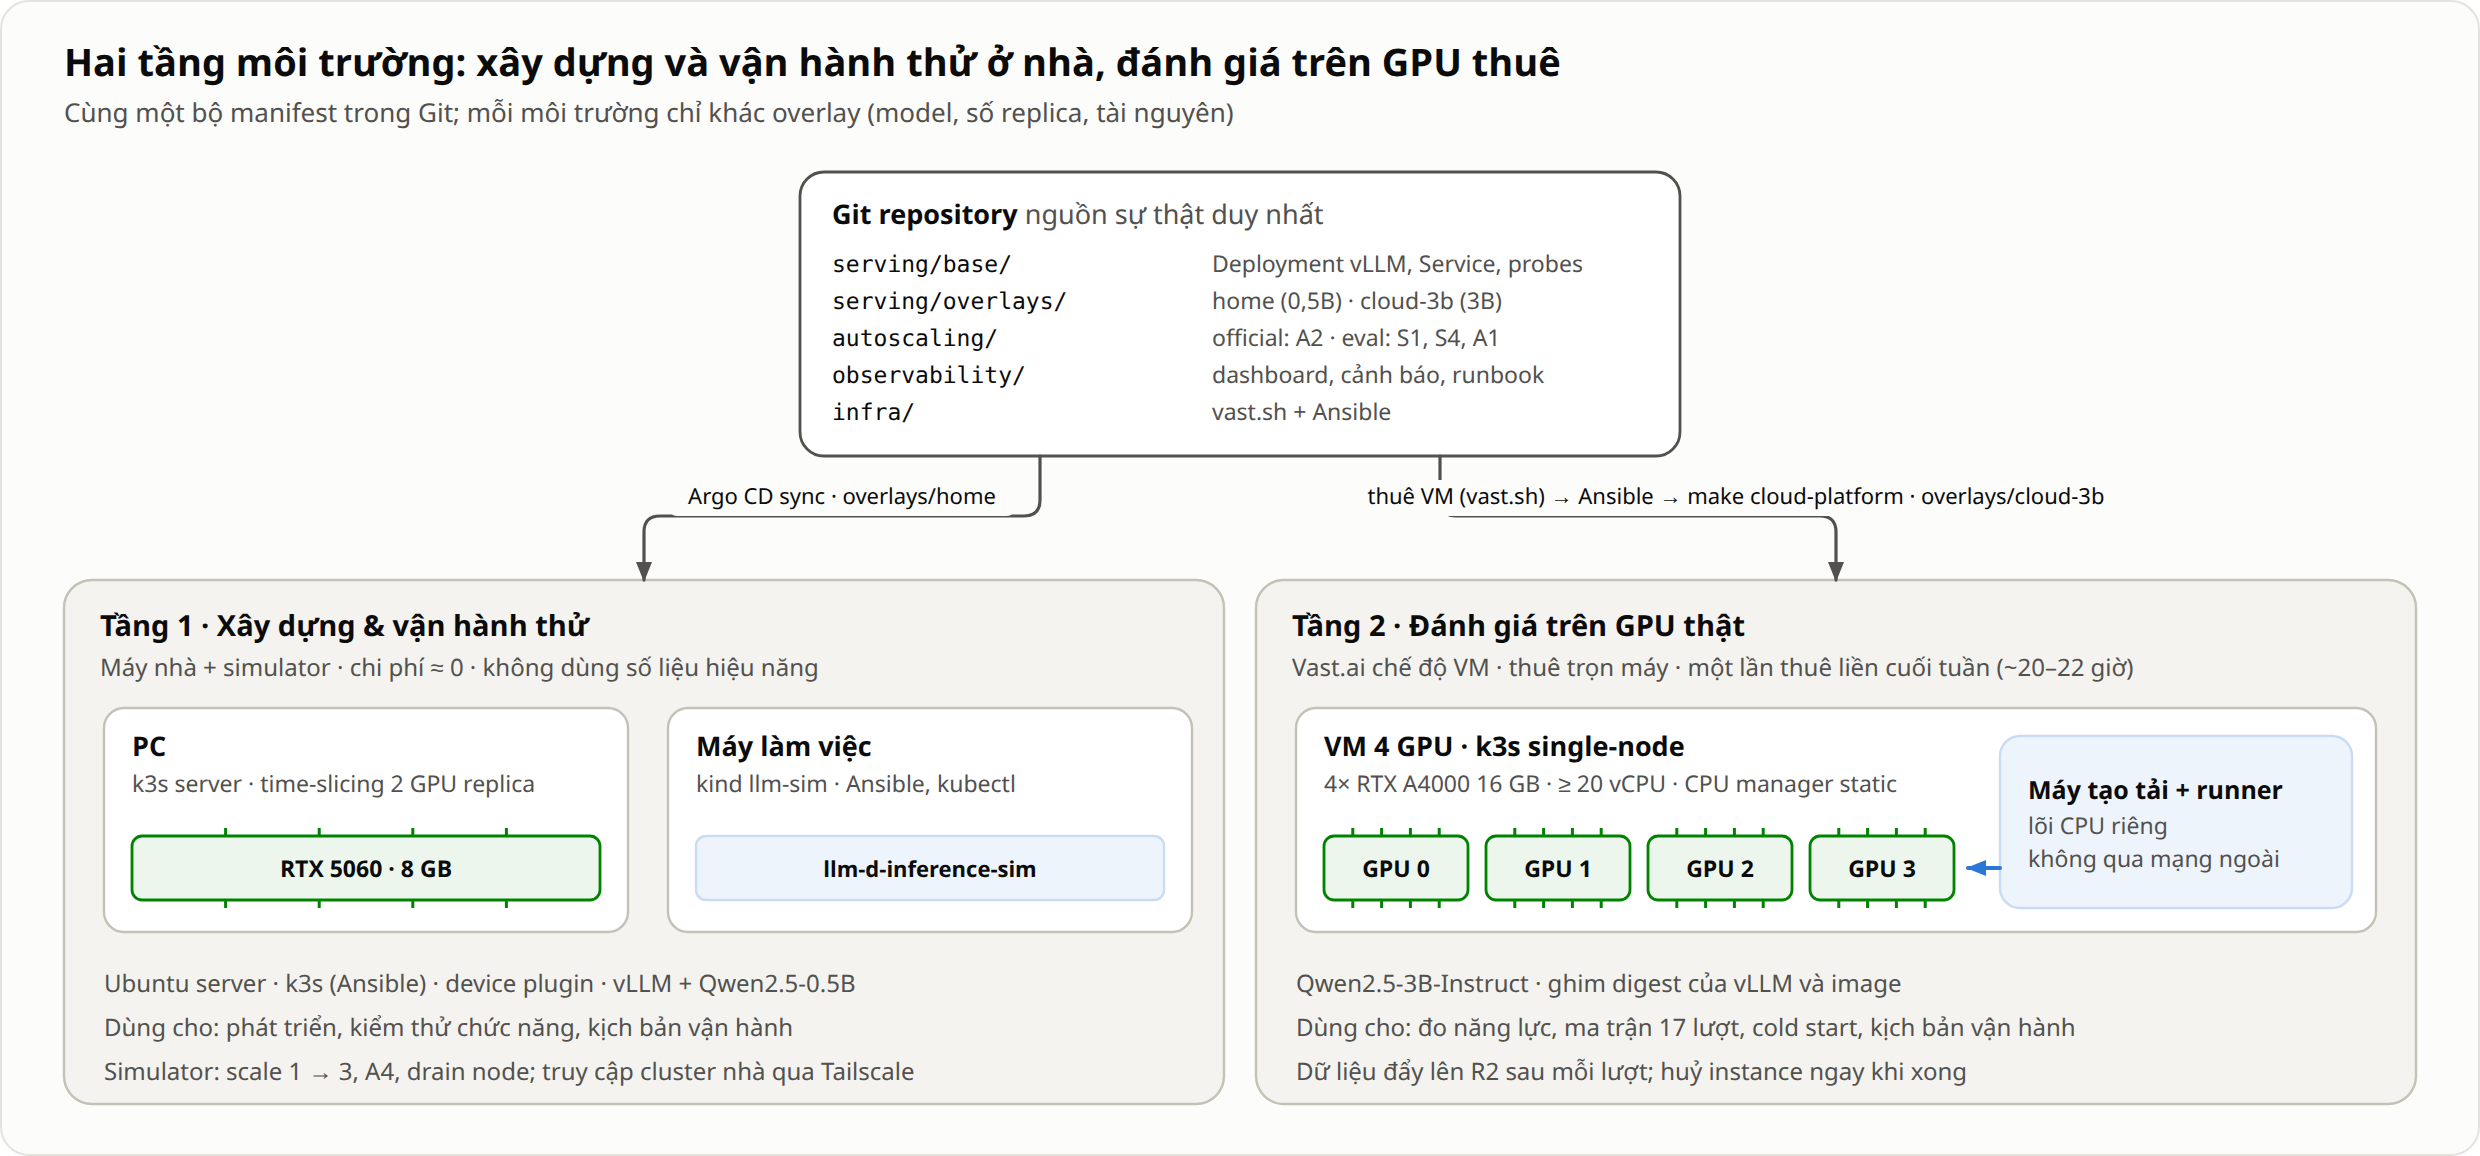
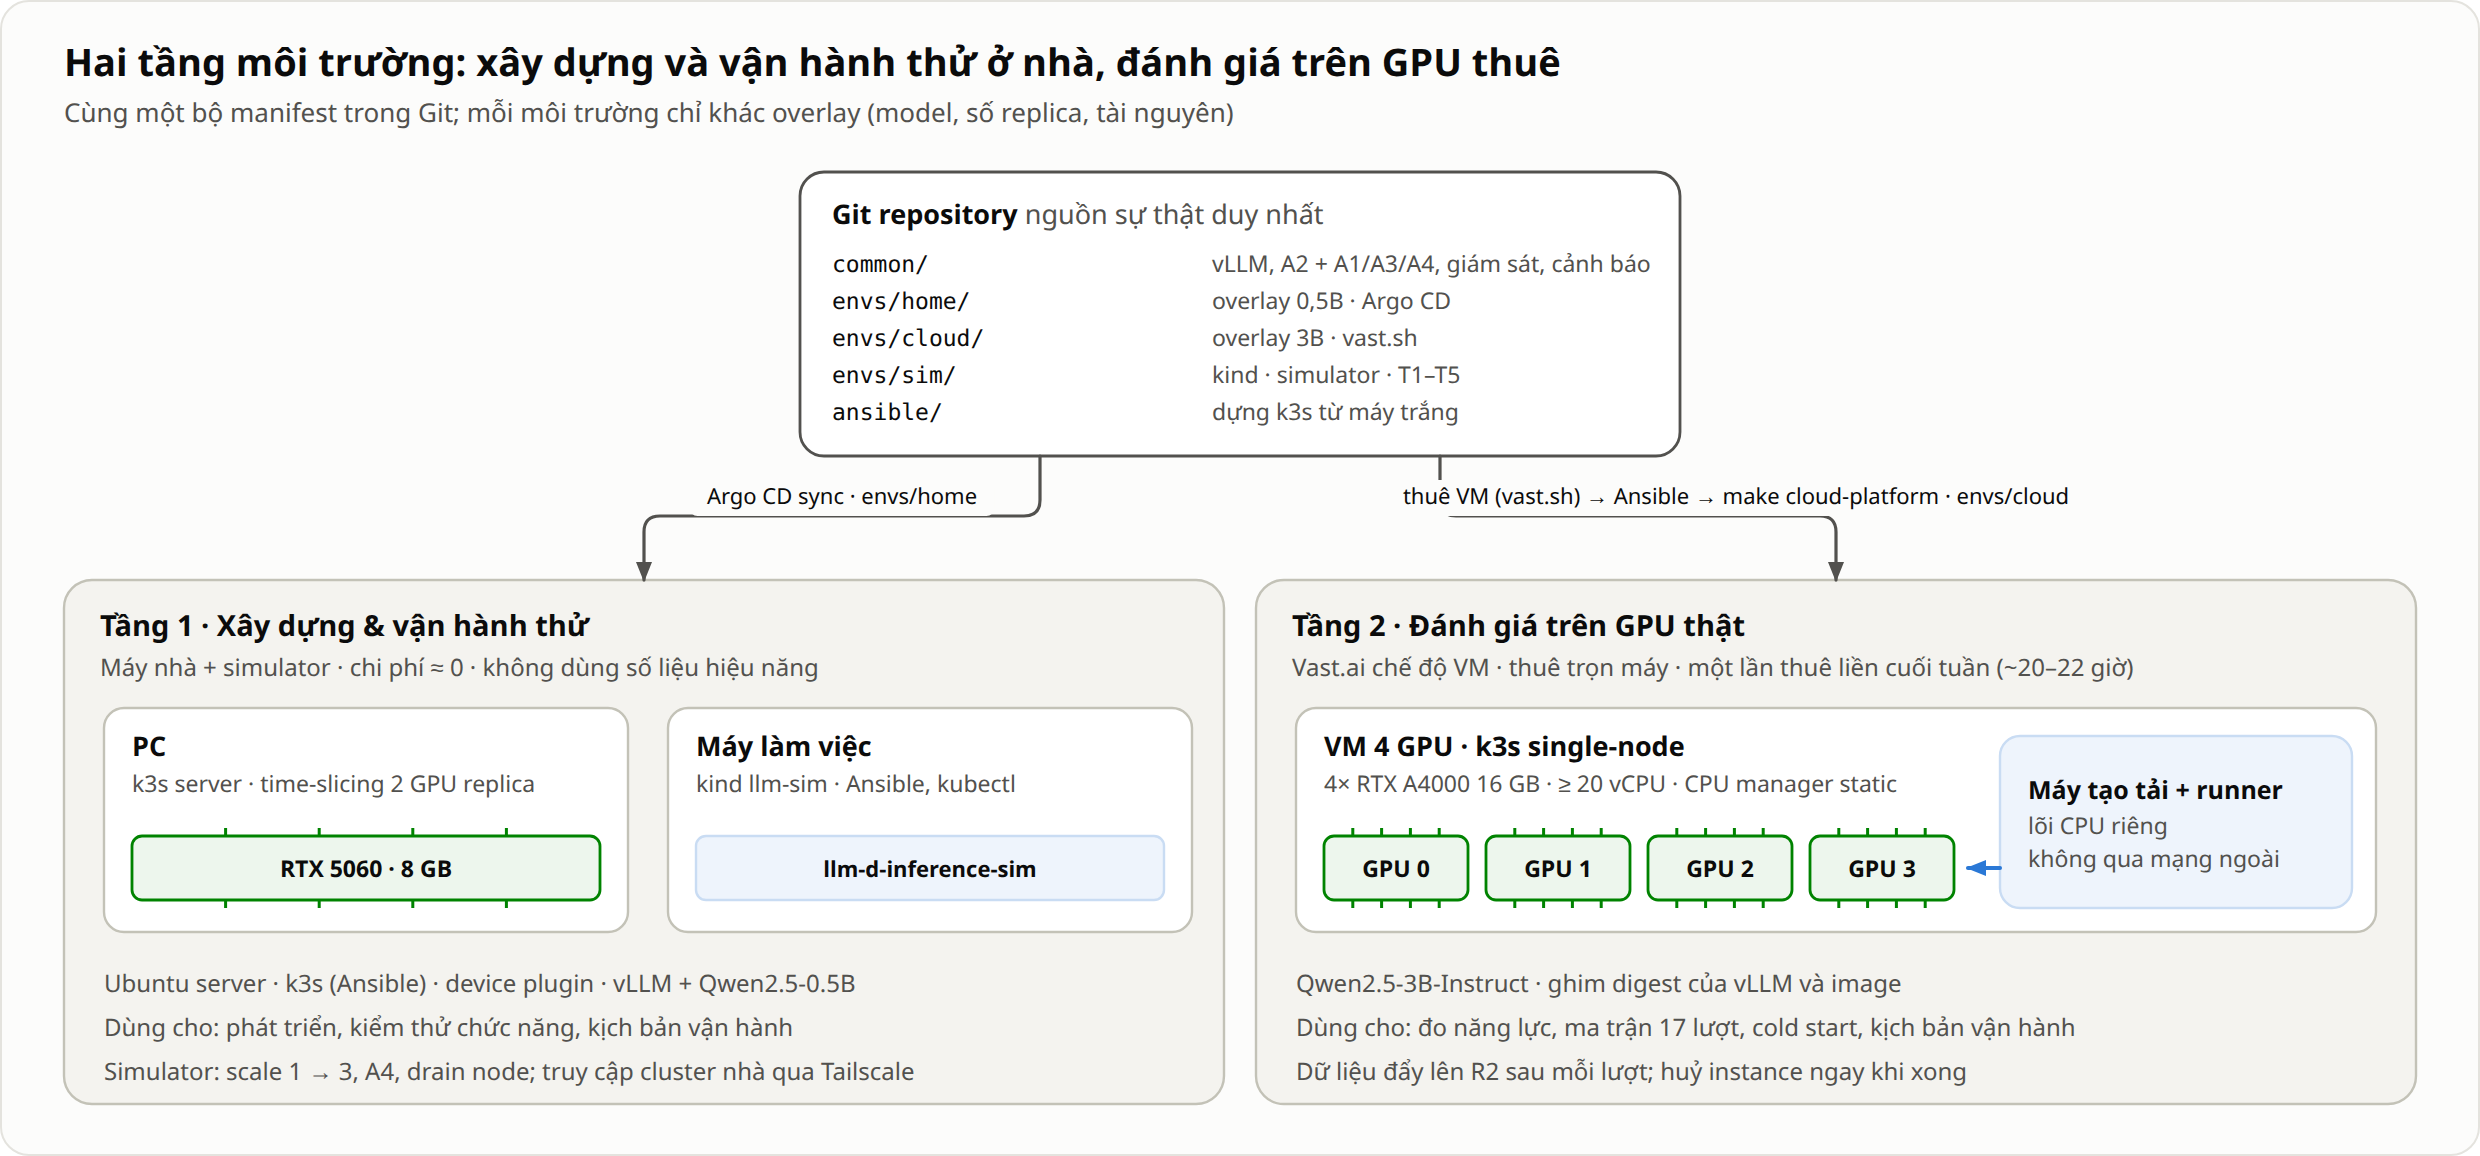
docs: redraw the repository block of figure 6 for the new layout

diff --git a/docs/diagrams/build_diagrams.py b/docs/diagrams/build_diagrams.py
@@ -682,11 +682,12 @@ def fig_envs():
     gx, gy, gw, gh = 400, 86, 440, 142
     s.rect(gx, gy, gw, gh, fill=WHITE, stroke=INK2, sw=1.4, rx=12)
     s.rich(gx + 16, gy + 26, [("Git repository", 650, INK), ("  nguồn sự thật duy nhất", 400, INK2)], size=13.5)
-    rows = [("serving/base/", "Deployment vLLM, Service, probes"),
-            ("serving/overlays/", "home (0,5B) · cloud-3b (3B)"),
-            ("autoscaling/", "official: A2 · eval: S1, S4, A1"),
-            ("observability/", "dashboard, cảnh báo, runbook"),
-            ("infra/", "vast.sh + Ansible")]
+    # Cấu trúc repo từ 12/11/2026: "chạy cái gì" (common/) tách khỏi "chạy ở đâu" (envs/<env>/).
+    rows = [("common/", "vLLM, A2 + A1/A3/A4, giám sát, cảnh báo"),
+            ("envs/home/", "overlay 0,5B · Argo CD"),
+            ("envs/cloud/", "overlay 3B · vast.sh"),
+            ("envs/sim/", "kind · simulator · T1–T5"),
+            ("ansible/", "dựng k3s từ máy trắng")]
     for i, (p, d) in enumerate(rows):
         y = gy + 50 + i * 18.5
         s.text(gx + 16, y, p, size=11.5, fill=INK, family=MONO)
@@ -734,9 +735,9 @@ def fig_envs():
         s.text(648, 496 + i * 22, ln, size=12, fill=INK2)
 
     s.arrow([(520, 228), (520, 258), (322, 258), (322, 290)], INK2, sw=1.6)
-    s.label(421, 252, "Argo CD sync · overlays/home", fill=INK)
+    s.label(421, 252, "Argo CD sync · envs/home", fill=INK)
     s.arrow([(720, 228), (720, 258), (918, 258), (918, 290)], INK2, sw=1.6)
-    s.label(868, 252, "thuê VM (vast.sh) → Ansible → make cloud-platform · overlays/cloud-3b", fill=INK)
+    s.label(868, 252, "thuê VM (vast.sh) → Ansible → make cloud-platform · envs/cloud", fill=INK)
     s.save("06-moi-truong-trien-khai.svg")
 
 
